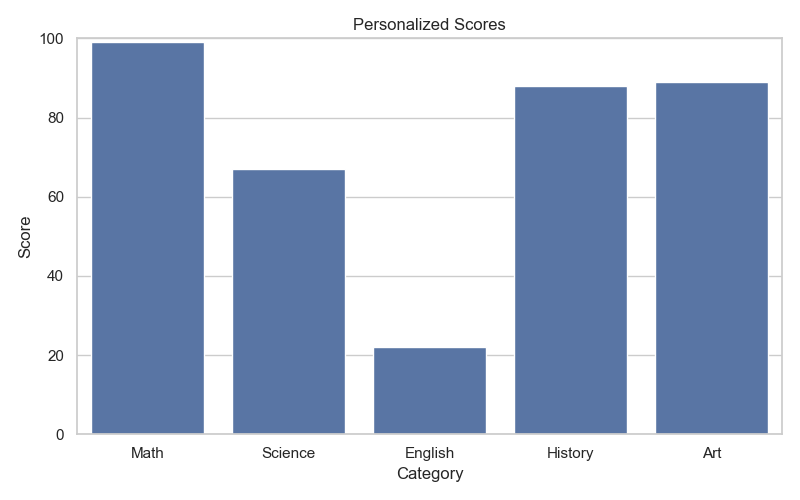
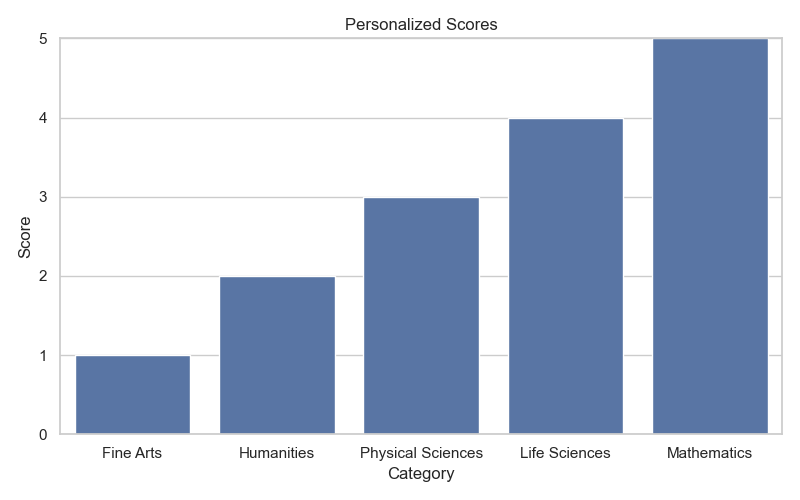
implement radio

diff --git a/Survey app/templates/index.html b/Survey app/templates/index.html
@@ -16,20 +16,58 @@
 
 <form method="POST">
 
-    <label>Math</label>
-    <input type="number" name="math" min="0" max="100" required><br><br>
+    <label>Rate your skills on each of the fields:</label>
 
-    <label>Science</label>
-    <input type="number" name="science" min="0" max="100" required><br><br>
+    <p><strong>Fine Arts</strong></p>
+    <label><input type="radio" name="fine" value="1" required> 1</label>
+    <label><input type="radio" name="fine" value="2"> 2</label>
+    <label><input type="radio" name="fine" value="3"> 3</label>
+    <label><input type="radio" name="fine" value="4"> 4</label>
+    <label><input type="radio" name="fine" value="5"> 5</label>
 
-    <label>English</label>
-    <input type="number" name="english" min="0" max="100" required><br><br>
+    <br><br>
 
-    <label>History</label>
-    <input type="number" name="history" min="0" max="100" required><br><br>
+    <p><strong>Humanities</strong></p>
+    <label><input type="radio" name="human" value="1" required> 1</label>
+    <label><input type="radio" name="human" value="2"> 2</label>
+    <label><input type="radio" name="human" value="3"> 3</label>
+    <label><input type="radio" name="human" value="4"> 4</label>
+    <label><input type="radio" name="human" value="5"> 5</label>
 
-    <label>Art</label>
-    <input type="number" name="art" min="0" max="100" required><br><br>
+    <br><br>
+
+    <p><strong>Physical Sciences</strong></p>
+    <label><input type="radio" name="phys" value="1" required> 1</label>
+    <label><input type="radio" name="phys" value="2"> 2</label>
+    <label><input type="radio" name="phys" value="3"> 3</label>
+    <label><input type="radio" name="phys" value="4"> 4</label>
+    <label><input type="radio" name="phys" value="5"> 5</label>
+
+    <br><br>
+
+    <p><strong>Life Sciences</strong></p>
+    <label><input type="radio" name="life" value="1" required> 1</label>
+    <label><input type="radio" name="life" value="2"> 2</label>
+    <label><input type="radio" name="life" value="3"> 3</label>
+    <label><input type="radio" name="life" value="4"> 4</label>
+    <label><input type="radio" name="life" value="5"> 5</label>
+
+    <br><br>
+
+    <p><strong>Mathematical Sciences</strong></p>
+    <label><input type="radio" name="math" value="1" required> 1</label>
+    <label><input type="radio" name="math" value="2"> 2</label>
+    <label><input type="radio" name="math" value="3"> 3</label>
+    <label><input type="radio" name="math" value="4"> 4</label>
+    <label><input type="radio" name="math" value="5"> 5</label>
+
+    <br><br>
+
+    <label>To what extent do you agree with the following statements?:</label>
+
+    <br><br>
+
+
 
     <button type="submit">Generate Graph</button>
 

diff --git a/Survey app/app.py b/Survey app/app.py
@@ -17,26 +17,26 @@ def index():
 
     if request.method == "POST":
 
+        fine = float(request.form["fine"])
+        human = float(request.form["human"])
+        phys = float(request.form["phys"])
+        life = float(request.form["life"])
         math = float(request.form["math"])
-        science = float(request.form["science"])
-        english = float(request.form["english"])
-        history = float(request.form["history"])
-        art = float(request.form["art"])
 
         df = pd.DataFrame({
             "Category": [
-                "Math",
-                "Science",
-                "English",
-                "History",
-                "Art"
+                "Fine Arts",
+                "Humanities",
+                "Physical Sciences",
+                "Life Sciences",
+                "Mathematics"
             ],
             "Value": [
-                math,
-                science,
-                english,
-                history,
-                art
+                fine,
+                human,
+                phys,
+                life,
+                math
             ]
         })
 
@@ -50,7 +50,7 @@ def index():
             y="Value"
         )
 
-        ax.set_ylim(0,100)
+        ax.set_ylim(0,5)
         ax.set_ylabel("Score")
         ax.set_title("Personalized Scores")
 
